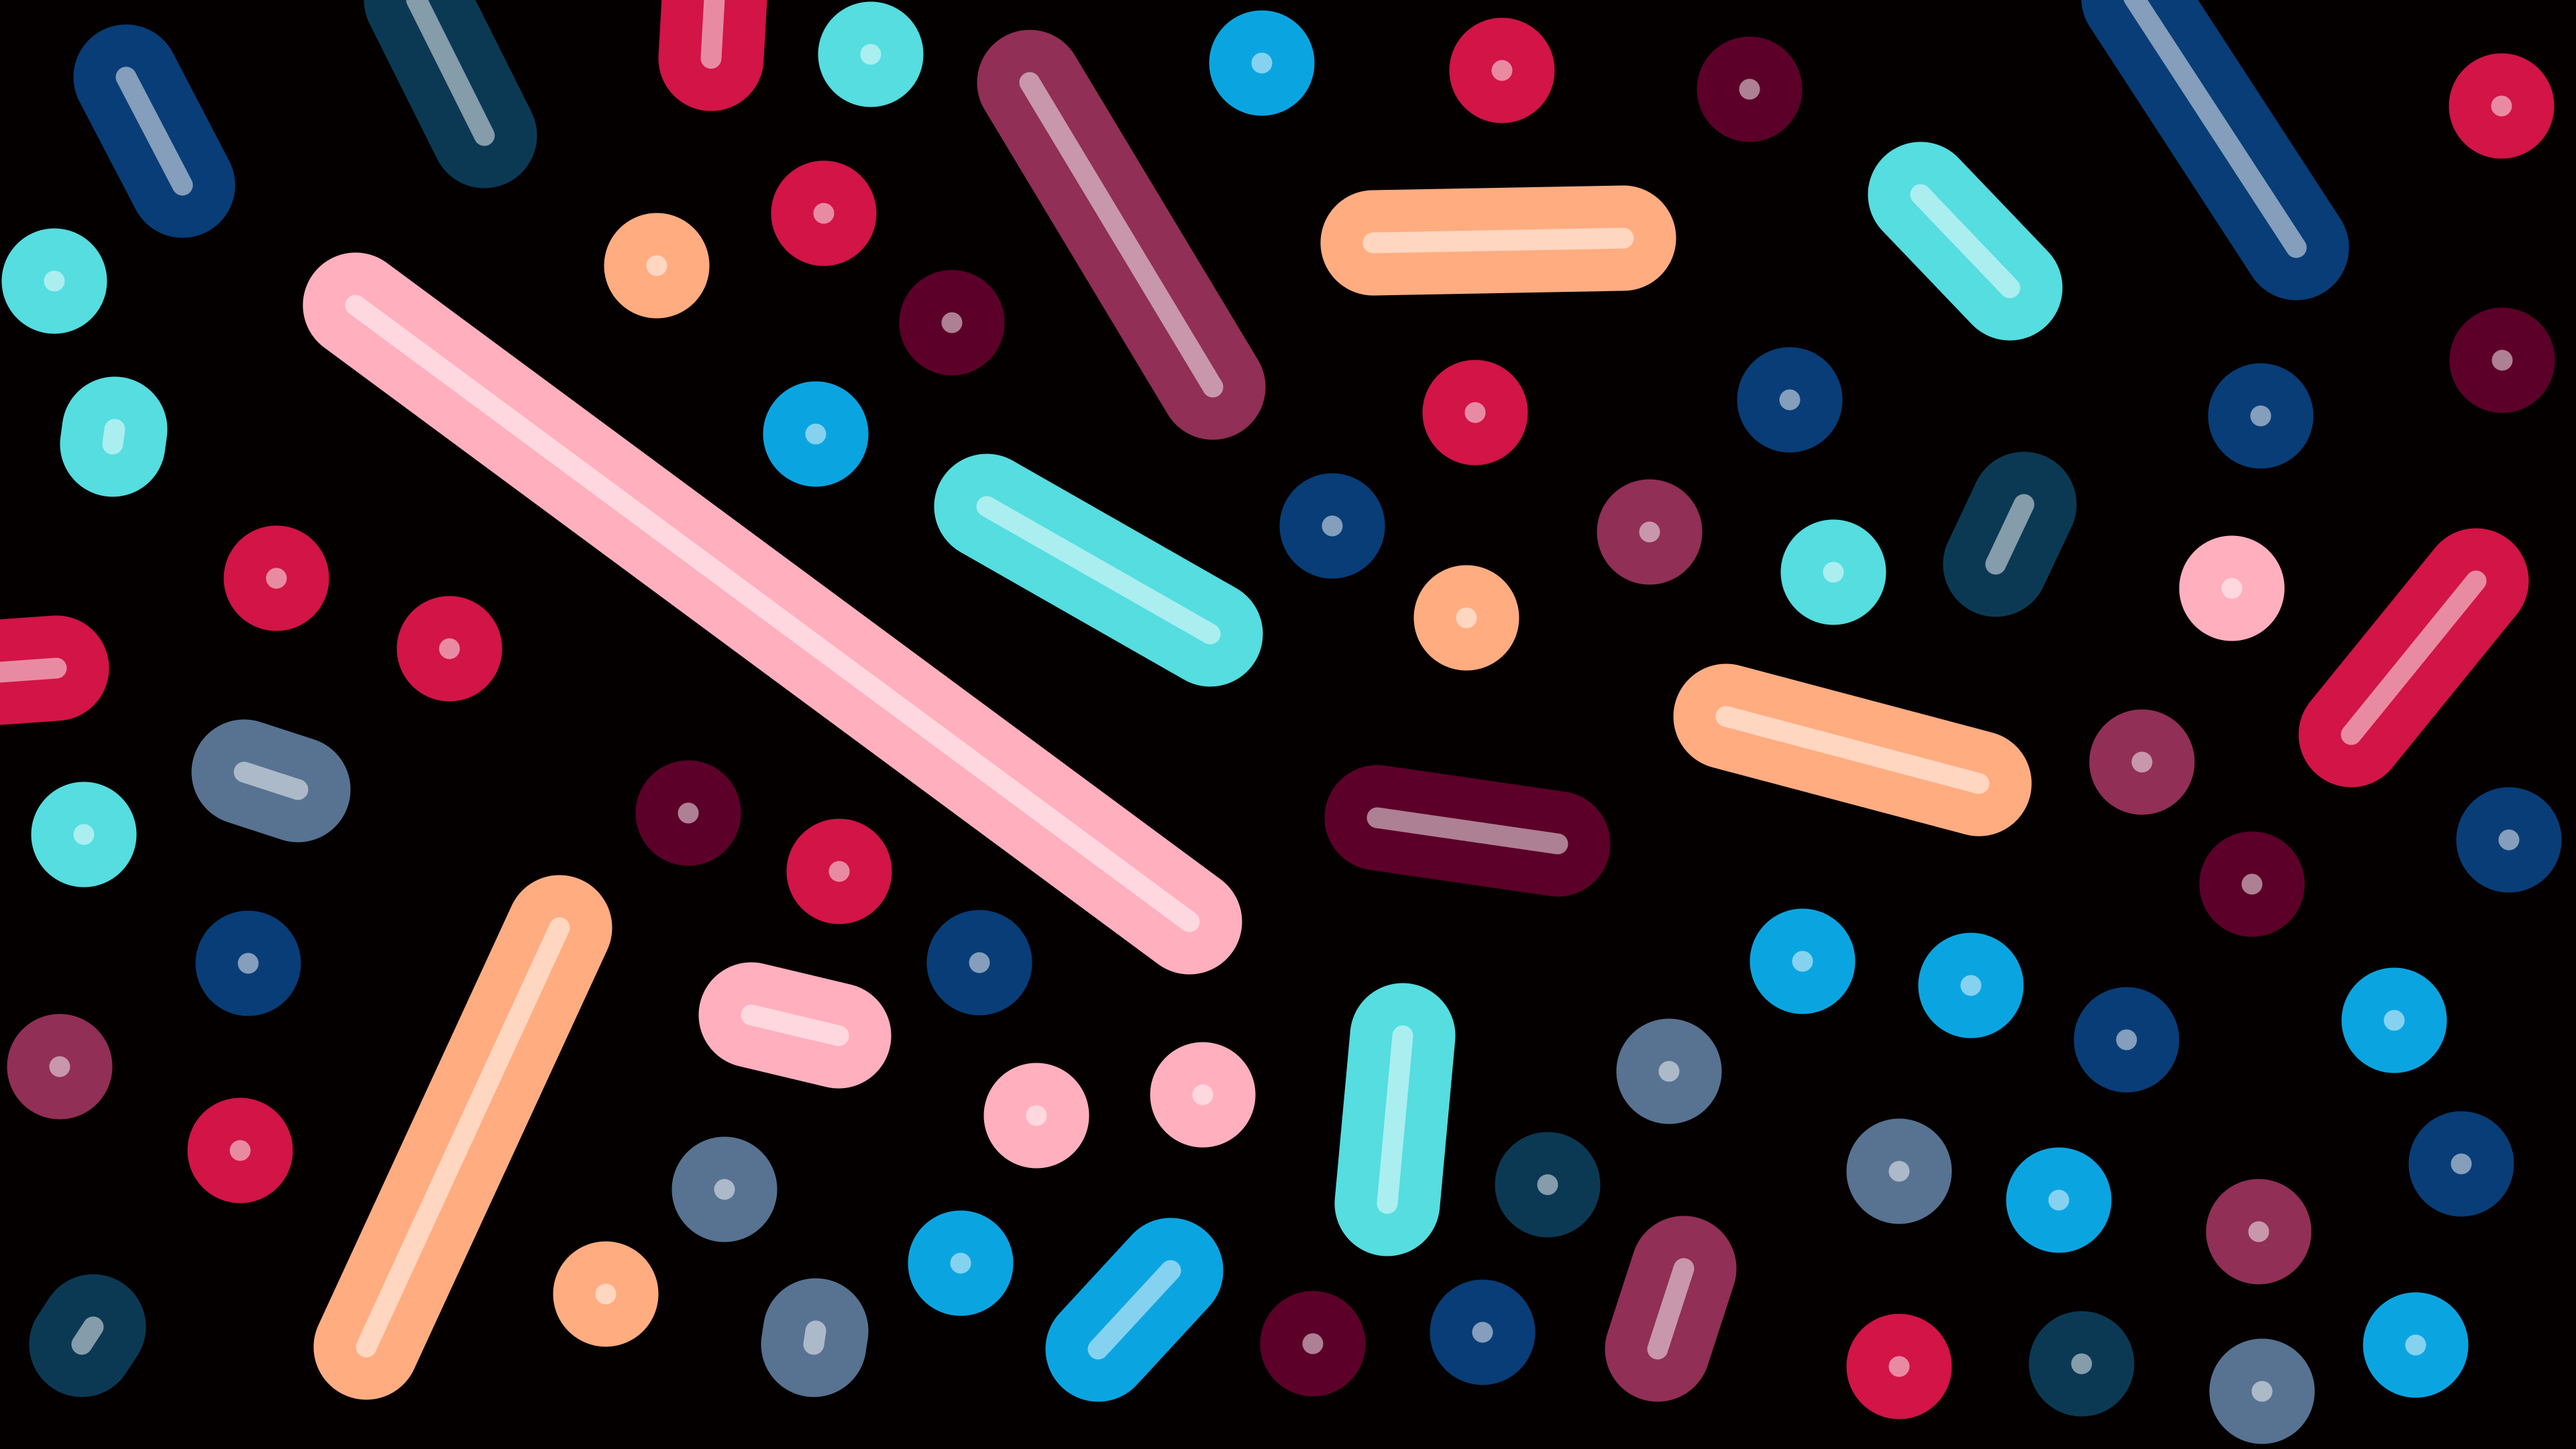
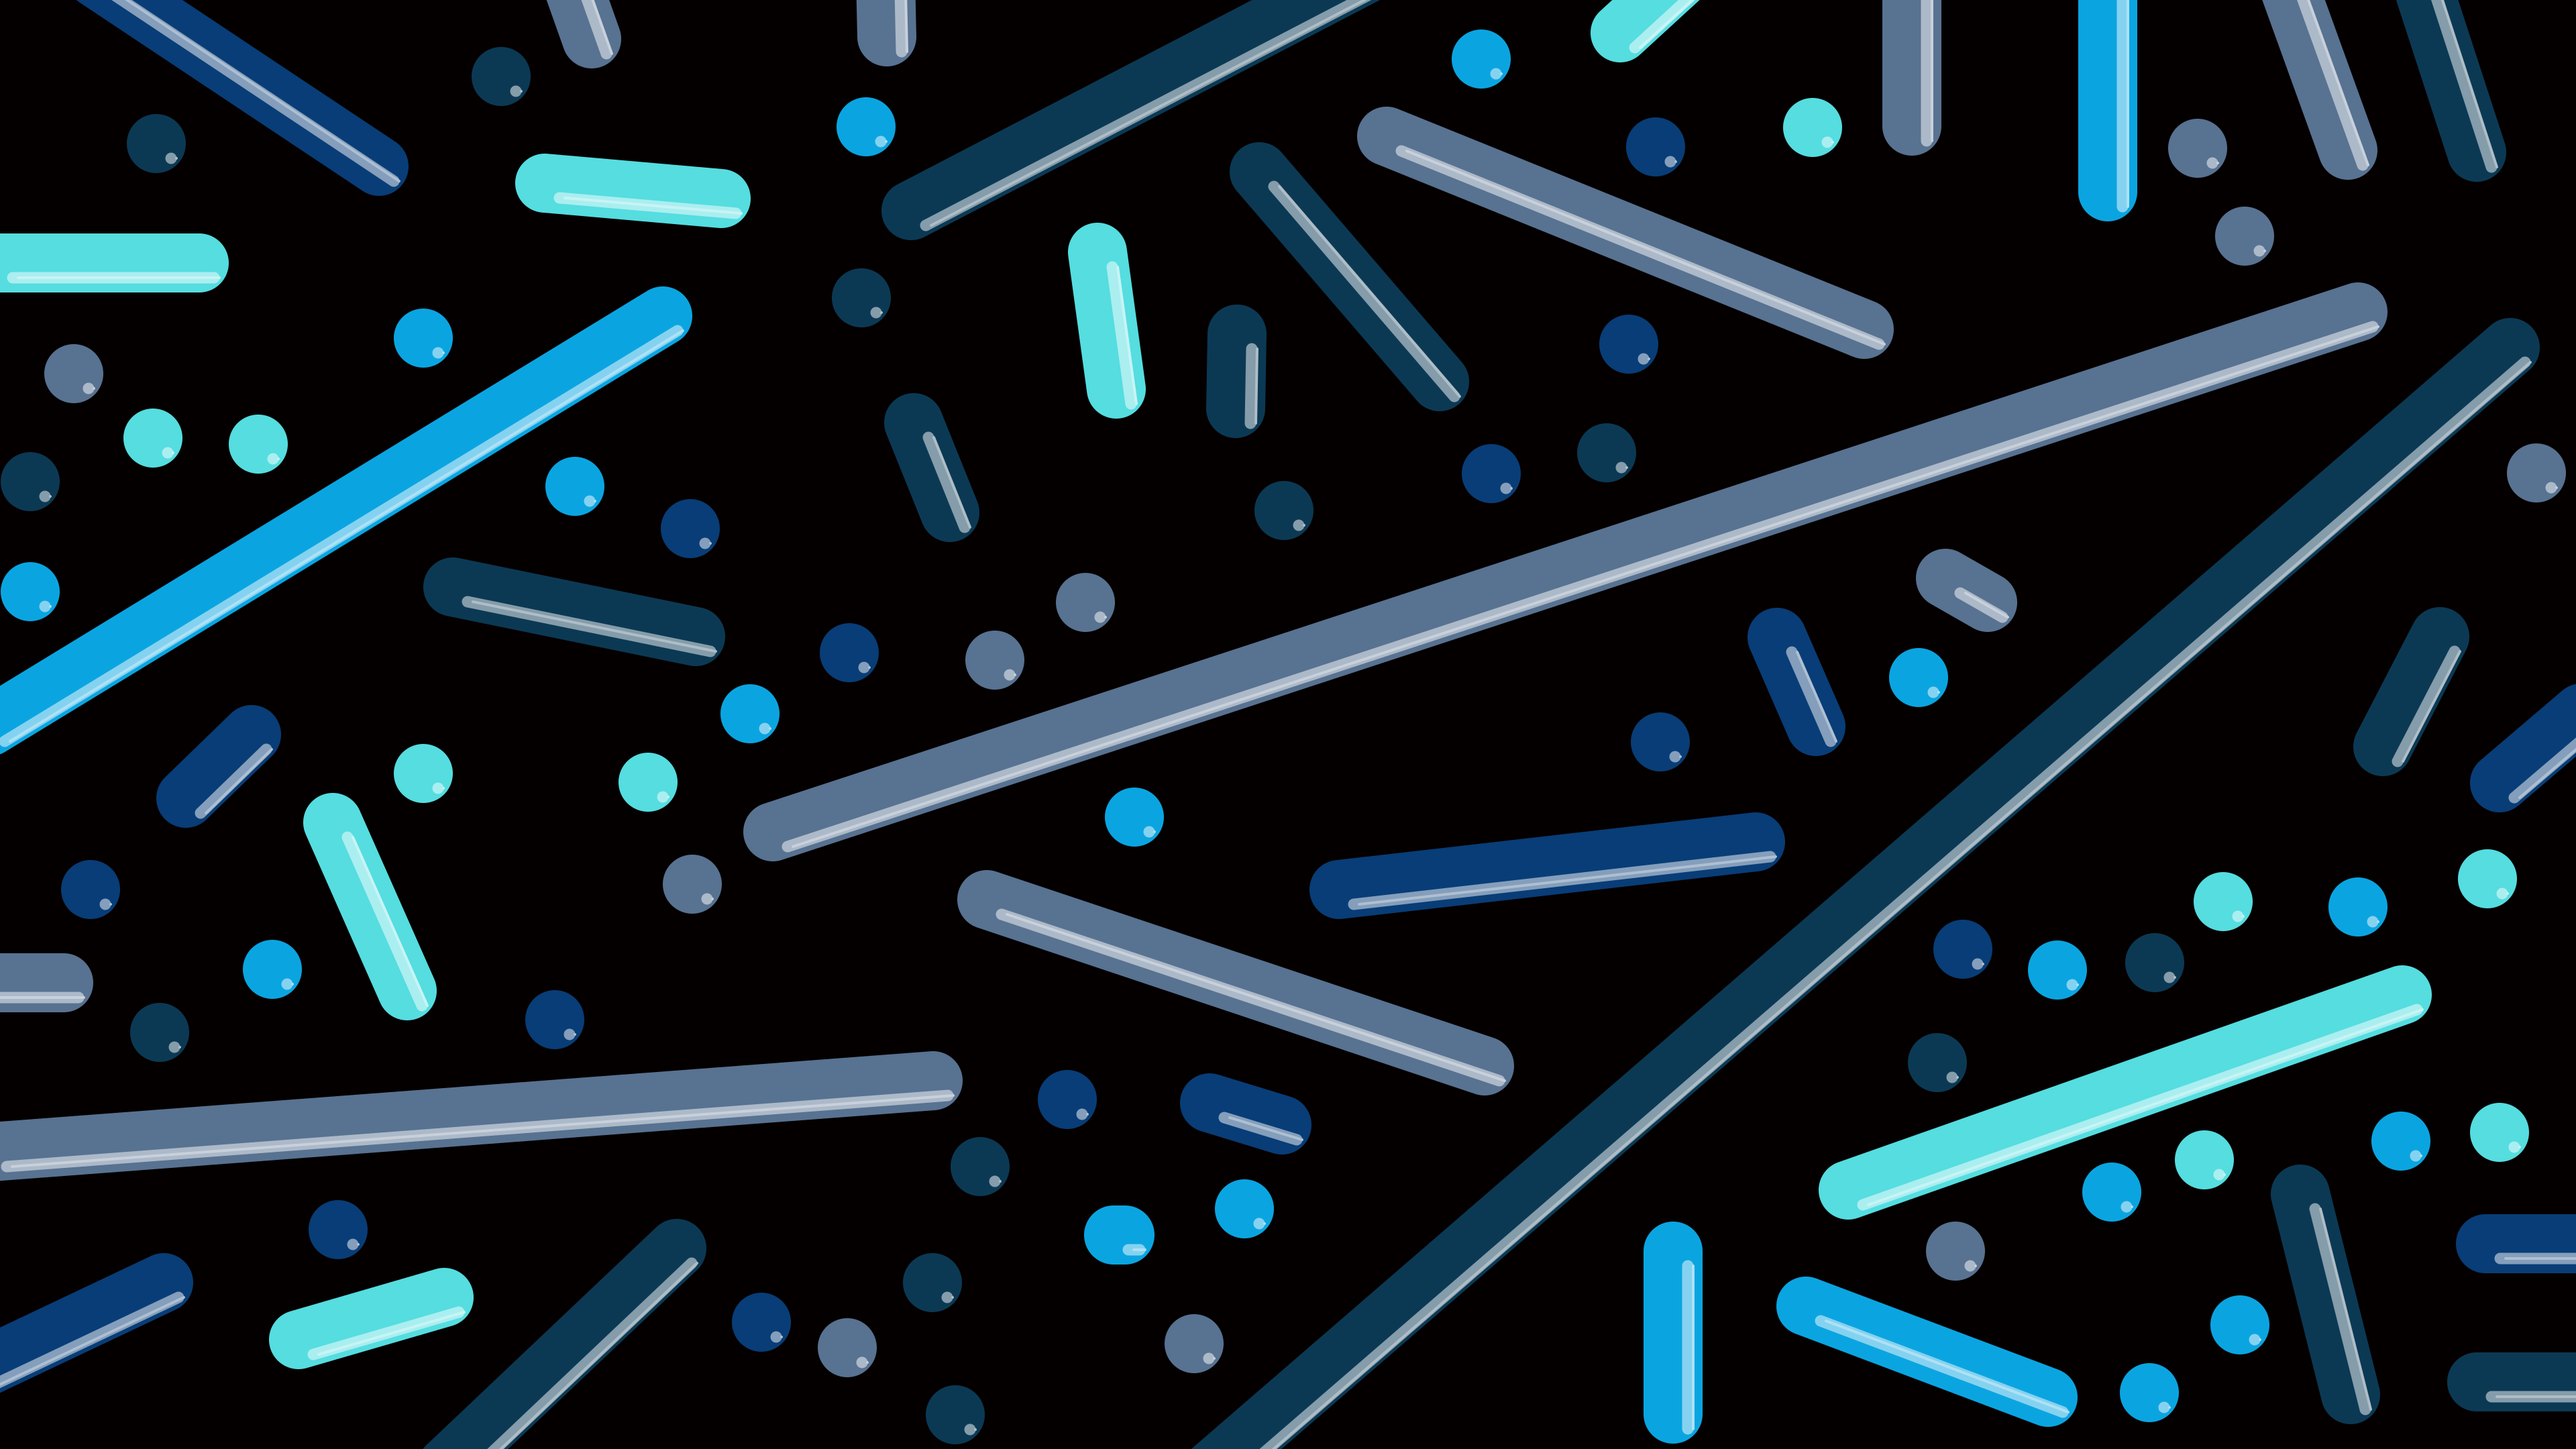
Add a second higlight.

diff --git a/shiny-bars/shiny-bars.py b/shiny-bars/shiny-bars.py
@@ -42,7 +42,6 @@ def bar(ctx, color, line_width, img_width, img_height, existing_shapes, max_atte
     failed_attempts = 0
     max_increment = 500
     while failed_attempts < max_attempts:
-        print("Max increment: {}".format(max_increment))
         new_end_x = end_x
         new_end_y = end_y
         increment = random.randint(1, max_increment)
@@ -65,23 +64,28 @@ def bar(ctx, color, line_width, img_width, img_height, existing_shapes, max_atte
                 break
 
     # Draw line
+    color_t = palettes.hex_to_tuple(color)
+    draw_line(ctx, start_x, start_y, end_x, end_y, color_t, line_width)
+
+    # Draw highlights
+    tints = colors.tints(color_t, 5)
+    ctx.save()
+    ctx.translate(line_width//4, line_width//4)
+    highlight_width = max(line_width // 5, 2)
+    draw_line(ctx, start_x, start_y, end_x, end_y, tints[-2], highlight_width)
+    ctx.translate(max(highlight_width//2, 1), 0)
+    draw_line(ctx, start_x, start_y, end_x, end_y, tints[-1], max(highlight_width// 4, 1))
+    ctx.restore()
+
+    return existing_shapes.union(bar)
+
+def draw_line(ctx, start_x, start_y, end_x, end_y, color, line_width):
     ctx.move_to(start_x, start_y)
     ctx.line_to(end_x, end_y)
     ctx.set_line_width(line_width)
     ctx.set_line_cap(cairo.LineCap.ROUND)
-    ctx.set_source_rgb(*palettes.hex_to_tuple(color))
-    ctx.stroke()
-
-    # Draw highlight
-    ctx.move_to(start_x, start_y)
-    ctx.line_to(end_x, end_y)
-    ctx.set_line_width(max(line_width // 5, 2))
-    ctx.set_line_cap(cairo.LineCap.ROUND)
-    color = colors.tints(palettes.hex_to_tuple(color), 5)[-2]
     ctx.set_source_rgb(*color)
     ctx.stroke()
-
-    return existing_shapes.union(bar)
 
 def within_canvas(x, y, width, height):
     return x > 0 and x < width and y > 0 and y < height
@@ -106,6 +110,5 @@ def main(filename="output.png", img_width=IMG_WIDTH, img_height=IMG_HEIGHT, pale
 
 
 if __name__ == "__main__":
-    # for idx, count in enumerate([20, 50, 100, 40]):
-    #     main(filename="output-{}.png".format(idx), count=count, line_width=random.randint(80, 200), palette=random.choice(palettes.PALETTES))
-    main(filename="output-{}.png".format(4), count=100, line_width=random.randint(40, 100), palette=random.choice(palettes.PALETTES))
+    for idx, count in enumerate([20, 50, 100, 40]):
+        main(filename="output-{}.png".format(idx), count=count, line_width=random.randint(40, 160), palette=random.choice(palettes.PALETTES))
